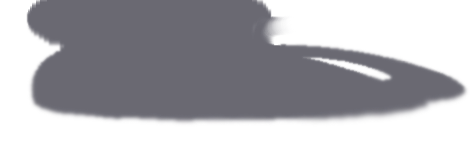
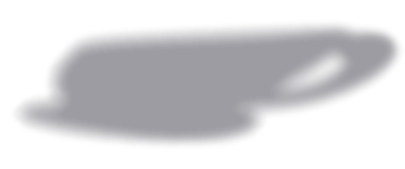
cofee on ma hoose

diff --git a/client/src/App.js b/client/src/App.js
@@ -3,7 +3,7 @@ import './App.css';
 import L from 'leaflet';
 import {MapContainer, TileLayer, Marker, Popup} from 'react-leaflet';
 import coffeeCup from './images/coffeecup.png';
-import coffeeShadow from './images/coffeecup-shadow-2.png'
+import coffeeShadow from './images/coffeecup-shadow.png'
 
 
 
@@ -11,8 +11,8 @@ class App extends Component {
 
   state = {
     coffeeIcon: {
-    lat: 51.505,
-    lng: 0.09
+    lat: 55.829120,
+    lng: -4.281100
     },
     
     zoom: 13,
@@ -37,7 +37,7 @@ class App extends Component {
     />
     <Marker position={positionCoffeeIcon} icon={this.coffeeIcon}>
       <Popup>
-        This coffee is tasty!. <br /> I love my coffee
+        <h3>This coffee is tasty!</h3> <br /> I love my coffee
       </Popup>
     </Marker>
   </MapContainer>
